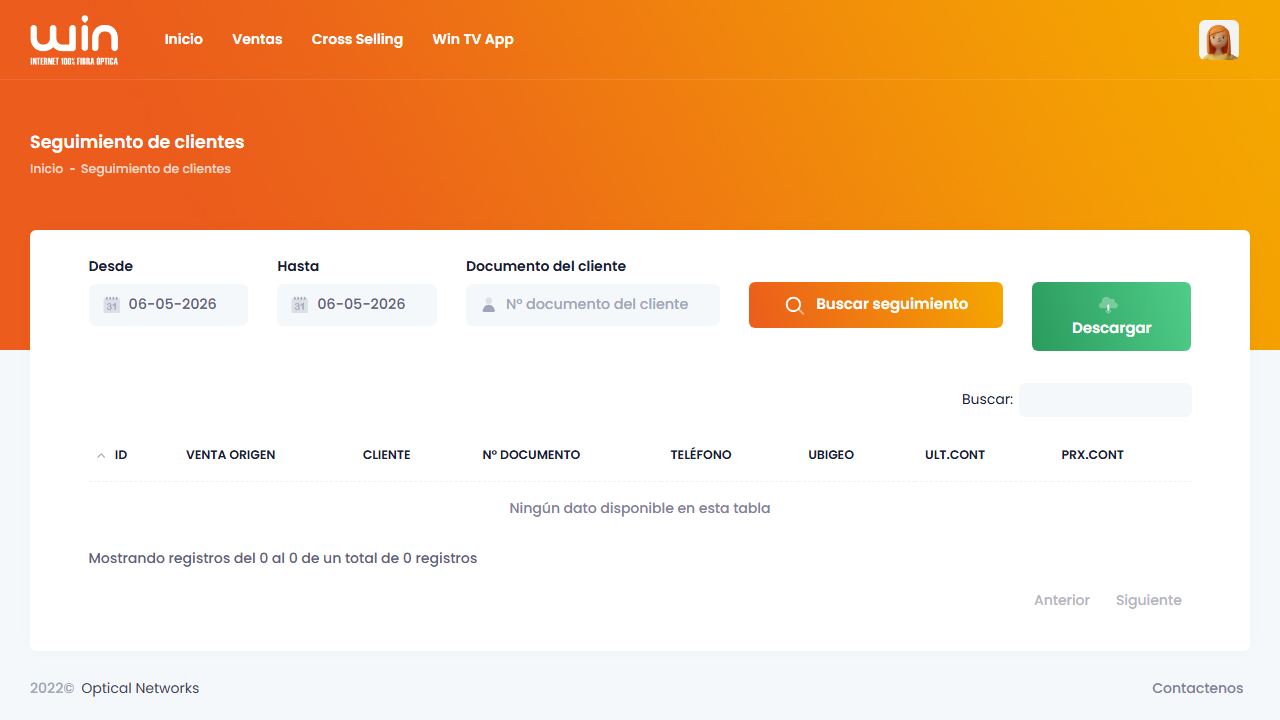
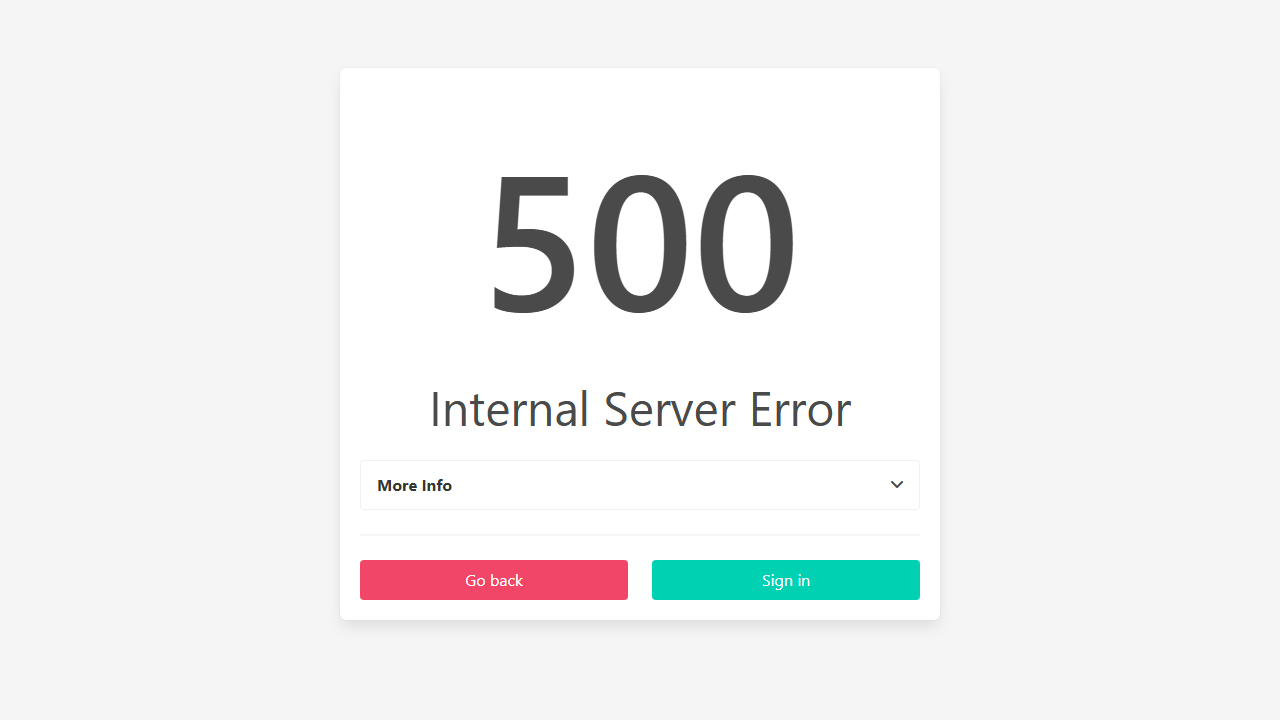
Fix: Reemplazando XPath de fechas por page.evaluate() global mas robusto

diff --git a/Descargas_Rápidas/WinforceLima2026.py b/Descargas_Rápidas/WinforceLima2026.py
@@ -134,7 +134,7 @@ def descargar_reporte_winforce():
             
             print("   Esperando que cargue la vista de ventas...")
             page.wait_for_load_state("networkidle")
-            time.sleep(2) # Pausa extra por si el renderizado tarda
+            time.sleep(3) # Pausa extra para que flatpickr inicialice los calendarios
 
             # 4. Aplica los filtros del mes actual
             print("4. Aplicando filtros (Desde - Hasta del mes actual)...")
@@ -159,15 +159,26 @@ def descargar_reporte_winforce():
             
             print(f"   Rango calculado: {primer_dia} al {ultimo_dia}")
             
-            # Los campos tienen "readonly" (flatpickr-input) por lo que el clásico .fill() falla buscando permitir escritura.
-            # Por lo tanto enviamos el valor directamente usando javascript nativo (evaluate) ignorando la restricción,
-            # y simulamos un evento 'change' para que la página sea consciente de esta actualización.
+            # Esperamos a que los inputs de fecha sean visibles
+            page.wait_for_selector(".flatpickr-input, input[id*='desde'], input[name*='desde']", timeout=30000)
+            time.sleep(1)
             
-            loc_desde = page.locator("xpath=//*[contains(text(),'Desde')]/following::input[1]")
-            loc_desde.evaluate(f"(el) => {{ el.value = '{primer_dia}'; el.dispatchEvent(new Event('change', {{ bubbles: true }})); }}")
-            
-            loc_hasta = page.locator("xpath=//*[contains(text(),'Hasta')]/following::input[1]")
-            loc_hasta.evaluate(f"(el) => {{ el.value = '{ultimo_dia}'; el.dispatchEvent(new Event('change', {{ bubbles: true }})); }}")
+            # Usamos page.evaluate() global para evitar errores de locator no encontrado.
+            # Inyectamos las fechas directamente en los primeros 2 inputs readonly (flatpickr)
+            page.evaluate(f"""
+                () => {{
+                    const inputs = document.querySelectorAll('input.flatpickr-input');
+                    if (inputs.length >= 1) {{
+                        inputs[0].value = '{primer_dia}';
+                        inputs[0].dispatchEvent(new Event('change', {{ bubbles: true }}));
+                    }}
+                    if (inputs.length >= 2) {{
+                        inputs[1].value = '{ultimo_dia}';
+                        inputs[1].dispatchEvent(new Event('change', {{ bubbles: true }}));
+                    }}
+                }}
+            """)
+            print(f"   Fechas establecidas via JS.")
             
             # 5. Hace clic en "Buscar"
             print("5. Dando clic en Buscar...")

diff --git a/Descargas_Rápidas/WinforceProvincia2026.py b/Descargas_Rápidas/WinforceProvincia2026.py
@@ -132,7 +132,7 @@ def descargar_reporte_winforce():
             
             print("   Esperando que cargue la vista de ventas...")
             page.wait_for_load_state("networkidle")
-            time.sleep(2) # Pausa extra por si el renderizado tarda
+            time.sleep(3) # Pausa extra para que flatpickr inicialice los calendarios
 
             # 4. Aplica los filtros del mes actual
             print("4. Aplicando filtros (Desde - Hasta del mes actual)...")
@@ -157,15 +157,25 @@ def descargar_reporte_winforce():
             
             print(f"   Rango calculado: {primer_dia} al {ultimo_dia}")
             
-            # Los campos tienen "readonly" (flatpickr-input) por lo que el clásico .fill() falla buscando permitir escritura.
-            # Por lo tanto enviamos el valor directamente usando javascript nativo (evaluate) ignorando la restricción,
-            # y simulamos un evento 'change' para que la página sea consciente de esta actualización.
+            # Esperamos a que los inputs de fecha sean visibles
+            page.wait_for_selector(".flatpickr-input, input[id*='desde'], input[name*='desde']", timeout=30000)
+            time.sleep(1)
             
-            loc_desde = page.locator("xpath=//*[contains(text(),'Desde')]/following::input[1]")
-            loc_desde.evaluate(f"(el) => {{ el.value = '{primer_dia}'; el.dispatchEvent(new Event('change', {{ bubbles: true }})); }}")
-            
-            loc_hasta = page.locator("xpath=//*[contains(text(),'Hasta')]/following::input[1]")
-            loc_hasta.evaluate(f"(el) => {{ el.value = '{ultimo_dia}'; el.dispatchEvent(new Event('change', {{ bubbles: true }})); }}")
+            # Usamos page.evaluate() global para inyectar fechas sin depender del locator
+            page.evaluate(f"""
+                () => {{
+                    const inputs = document.querySelectorAll('input.flatpickr-input');
+                    if (inputs.length >= 1) {{
+                        inputs[0].value = '{primer_dia}';
+                        inputs[0].dispatchEvent(new Event('change', {{ bubbles: true }}));
+                    }}
+                    if (inputs.length >= 2) {{
+                        inputs[1].value = '{ultimo_dia}';
+                        inputs[1].dispatchEvent(new Event('change', {{ bubbles: true }}));
+                    }}
+                }}
+            """)
+            print(f"   Fechas establecidas via JS.")
             
             # 5. Hace clic en "Buscar"
             print("5. Dando clic en Buscar...")